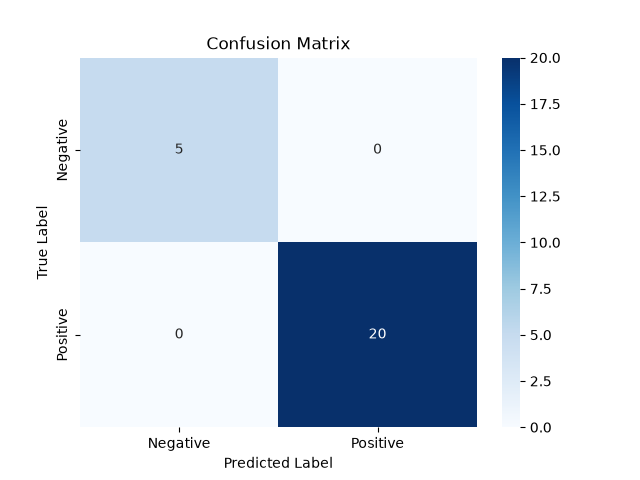
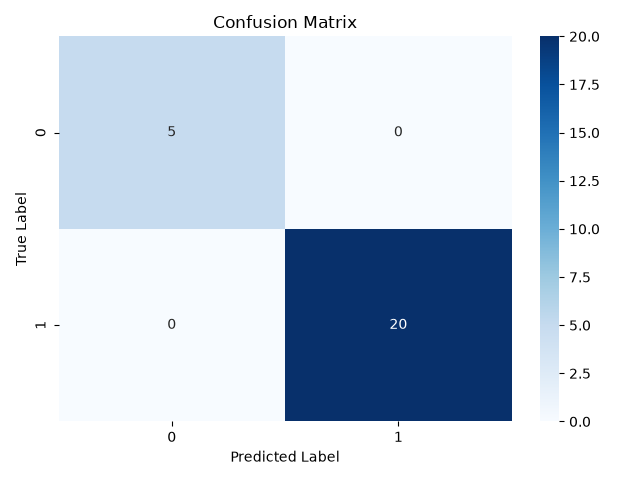
完善阈值与分类指标练习说明

diff --git a/阈值与混淆矩阵/breast_cancer_threshold_train.py b/阈值与混淆矩阵/breast_cancer_threshold_train.py
@@ -183,8 +183,6 @@ if __name__ == "__main__":
                 annot=True,
                 fmt="d",
                 cmap="Blues",
-                xticklabels=["Negative", "Positive"],
-                yticklabels=["Negative", "Positive"]
             )
 
             plt.xlabel("Predicted Label")

diff --git a/阈值与混淆矩阵/README.md b/阈值与混淆矩阵/README.md
@@ -24,7 +24,9 @@ pred = torch.where(prob > _threshold, 1, 0)
 
 因此，我们可以结合混淆矩阵观察不同阈值下的分类结果，并根据实际需求调整阈值，在误报和漏报之间找到合适的平衡。
 
-混淆矩阵是用于评估逻辑回归等分类模型预测结果的工具。通过观察不同阈值下的混淆矩阵，可以了解模型的误报和漏报情况，并根据实际需求调整分类阈值。 使用PyTorch实现混淆矩阵
+混淆矩阵是用于评估逻辑回归等分类模型预测结果的工具。通过观察不同阈值下的混淆矩阵，可以了解模型的误报和漏报情况，并根据实际需求调整分类阈值。
+
+使用PyTorch实现混淆矩阵
 ```python
 from torchmetrics.classification import BinaryConfusionMatrix
 confusion_matrix = BinaryConfusionMatrix(threshold=0.5)
@@ -36,6 +38,14 @@ print(result)
 # tensor([[ 5,  0],
 #         [ 0, 20]])
 ```
+我这里用的是 torchmetrics 库 ， 他输出的混淆矩阵顺序跟官方的不一样
+
+https://lightning.ai/docs/torchmetrics/stable/classification/confusion_matrix
+
+| TN 真负例 True negatives | FP 假正例 False positives |
+|---|---|
+| FN 假负例 False negatives | TP 真正例 True positives |
+
 用seaborn库可视化
 ```python
 import matplotlib.pyplot as plt
@@ -47,10 +57,7 @@ sns.heatmap(
     annot=True,
     fmt="d",
     cmap="Blues",
-    xticklabels=["Negative", "Positive"],
-    yticklabels=["Negative", "Positive"]
 )
-
 plt.xlabel("Predicted Label")
 plt.ylabel("True Label")
 plt.title("Confusion Matrix")

diff --git a/分类指标：准确率、召回率、精确率及相关指标/README.md b/分类指标：准确率、召回率、精确率及相关指标/README.md
@@ -1,4 +1,4 @@
-from asn1crypto.tsp import Accuracy准确率是指所有分类中判断正确的比例，无论正例还是负例。
+Accuracy准确率是指所有分类中判断正确的比例，无论正例还是负例。
 
 在垃圾邮件分类示例中，准确率衡量的是所有电子邮件中被正确分类的比例。
 
